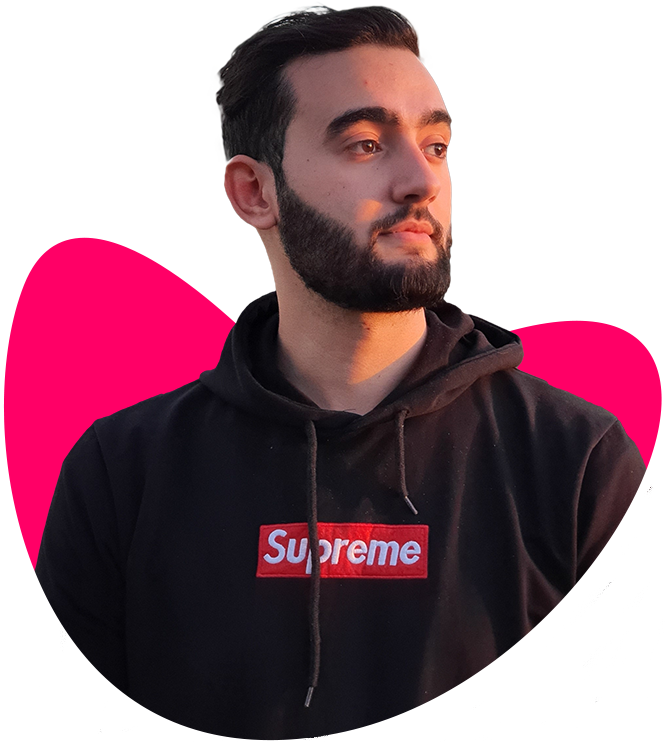
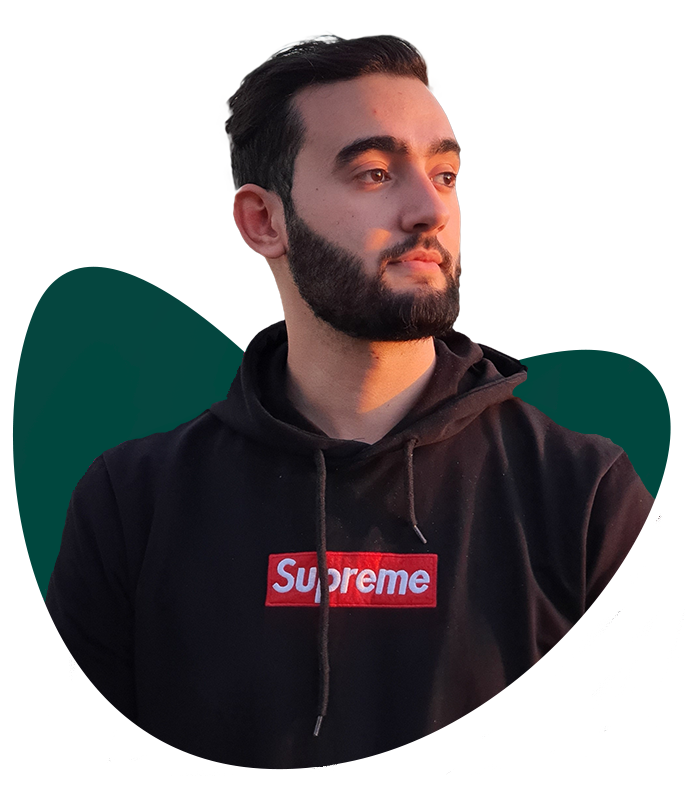
fixed coloring

diff --git a/src/components/Dev/Dev.scss b/src/components/Dev/Dev.scss
@@ -439,3 +439,29 @@
         background-color: var(--main-color);
     }
 }
+.new-card-wrap {
+    position: relative;
+    margin: 1.7rem 0.8rem;
+}
+
+.new-card-content {
+    padding: 1.5rem;
+    background: linear-gradient(hsl(0, 0%, 0% / 0),
+            hsl(0, 0%, 0% / 0.3) 90%,
+            hsl(0, 0%, 0% / 1));
+}
+
+.new-card-title::after {
+    content: "";
+    position: absolute;
+    height: 3px;
+    background: var(--main-color);
+}
+
+.new-card {
+    background-color: var(--light-one);
+    padding: 10rem 0 0;
+    max-width: 35ch;
+
+
+}

diff --git a/src/index.scss b/src/index.scss
@@ -365,7 +365,7 @@ img {
     margin: 1.1rem 0;
   }
 
-  .card {
+        .card {
     min-height: 390px;
     max-width: 290px;
     padding: 2.2rem 1.5rem;
